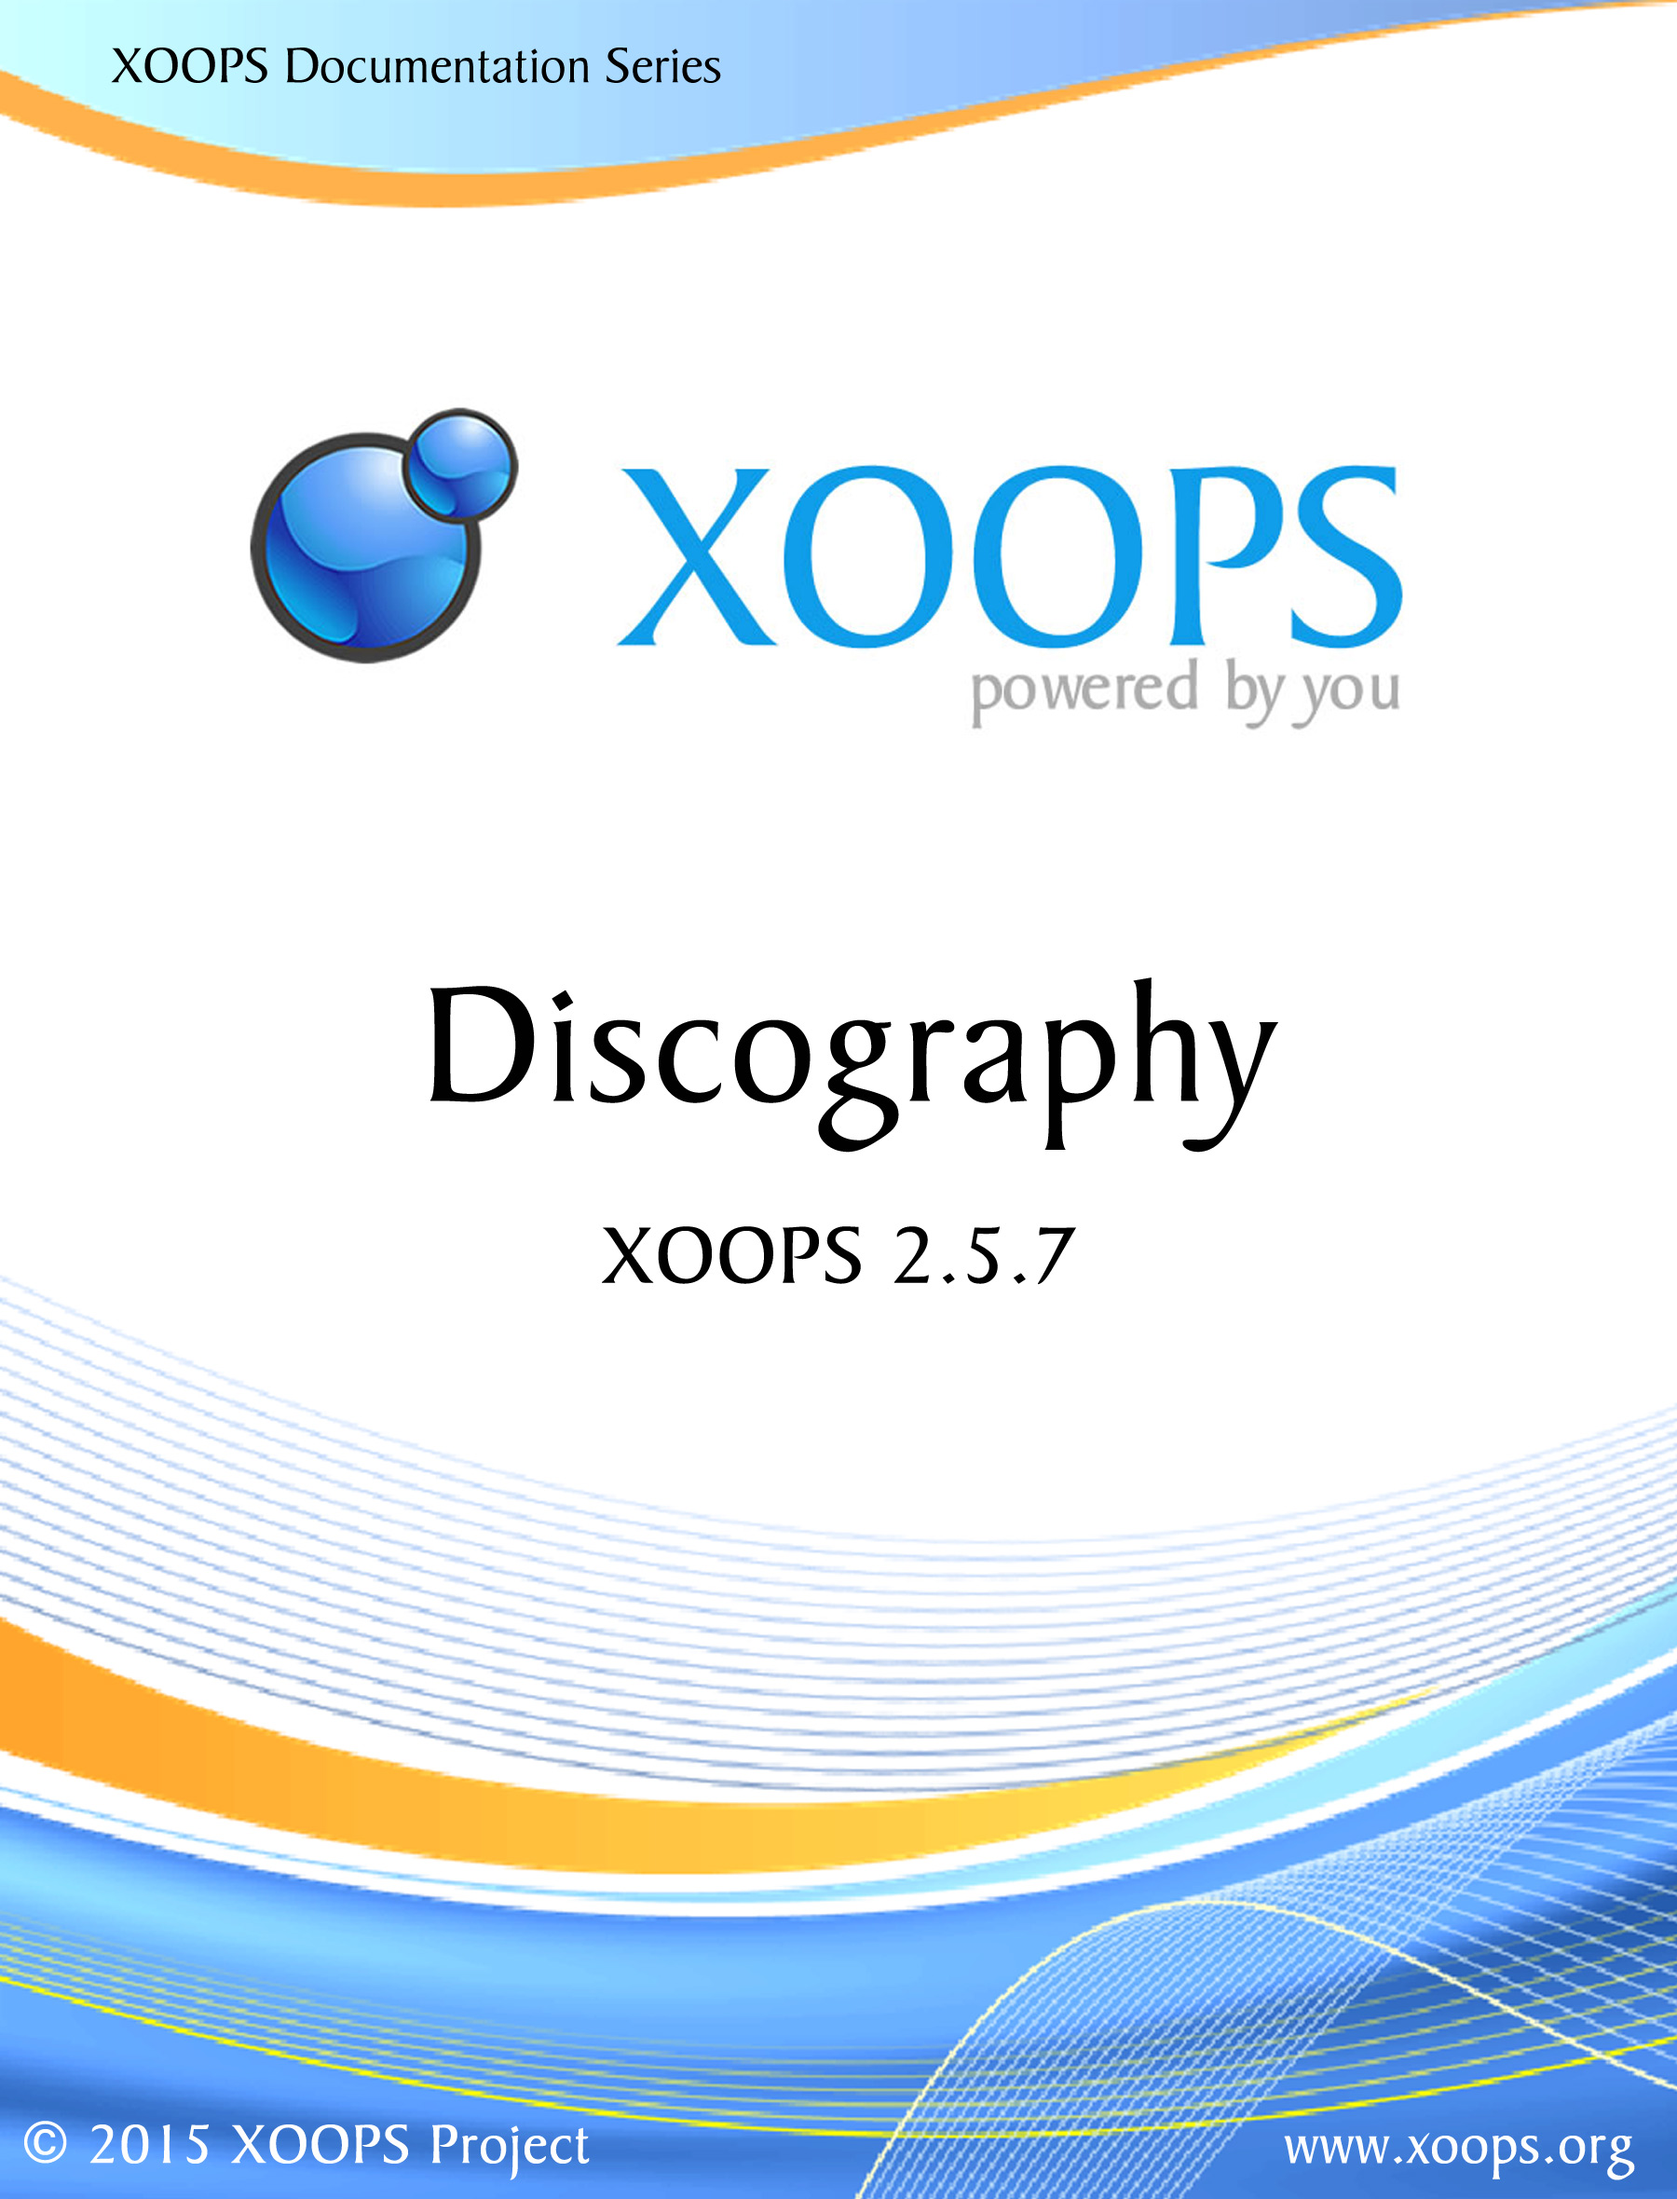
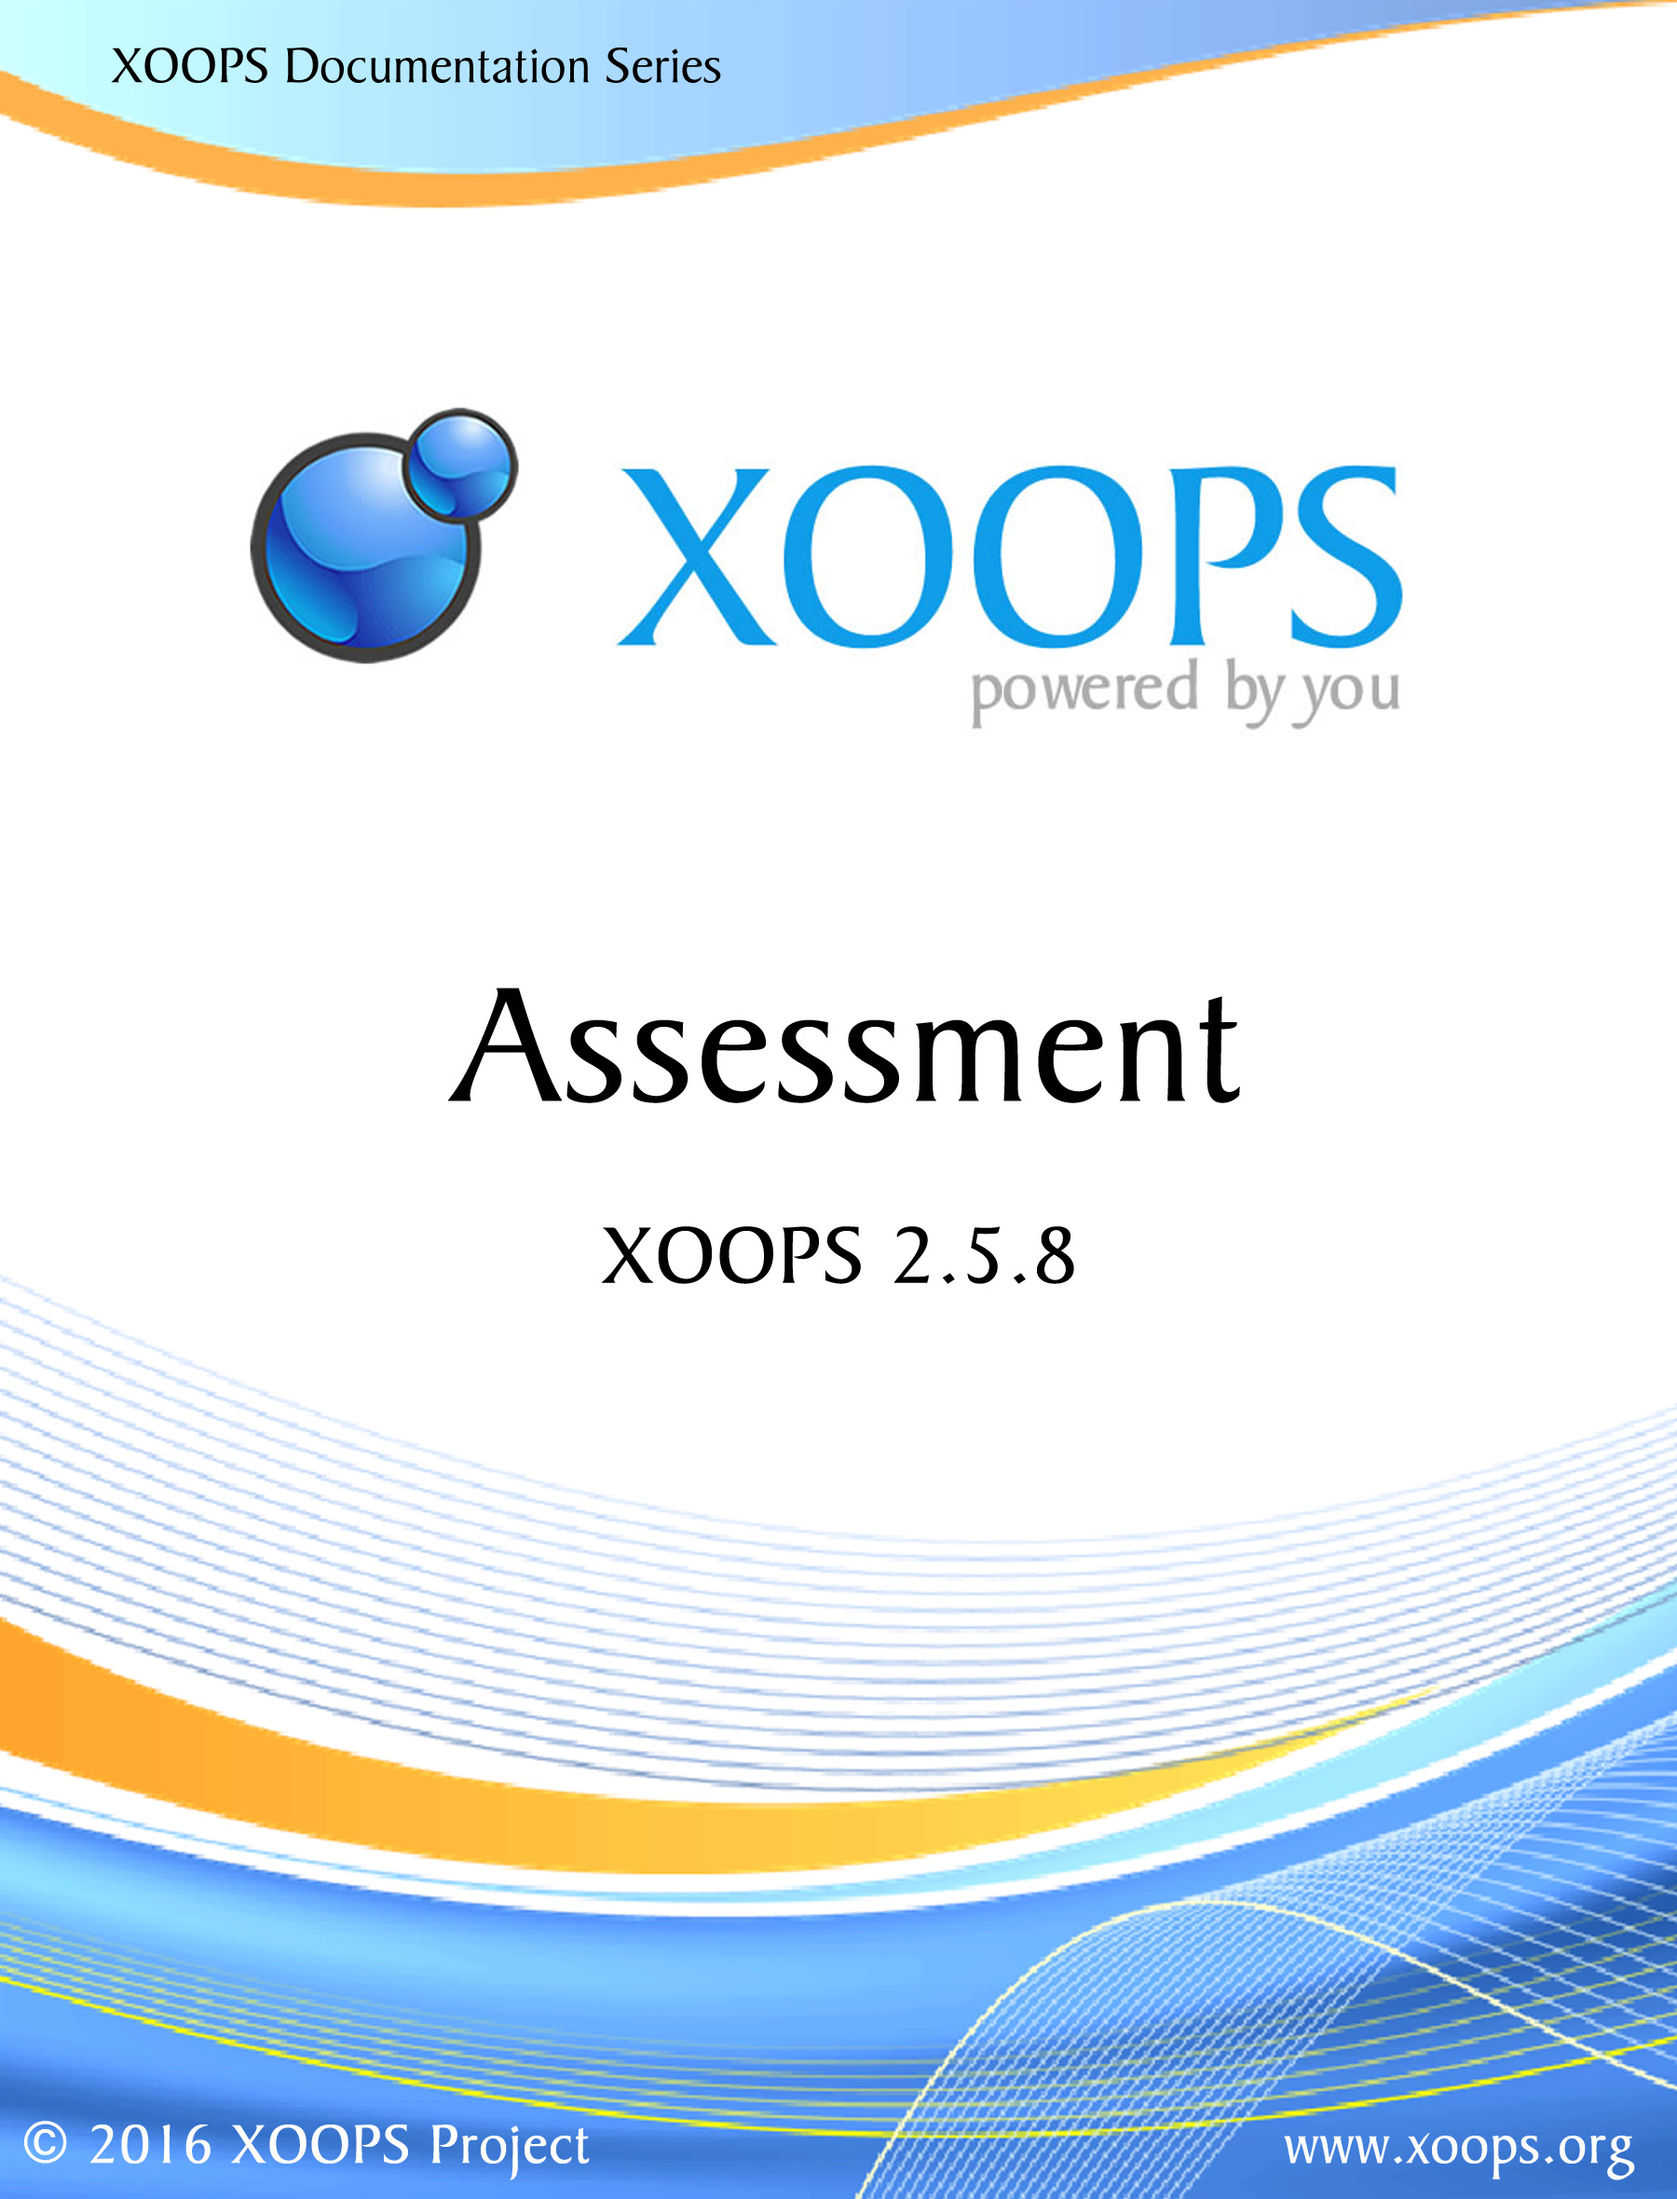
update

Changed region(s): [[0.2489, 0.4331, 0.7778, 0.5258], [0.6222, 0.5568, 0.6533, 0.5877], [0.0933, 0.9589, 0.1244, 0.9898]]

diff --git a/README.md b/README.md
@@ -1,3 +1,47 @@
-# My Awesome Book
+### _XOOPS Documentation Series_
+![logoXoops.jpg](assets/logoXoops.jpg)
 
-This file file serves as your book's preface, a great place to describe your book's content and ideas.
+# Module Assessment
+#### for XOOPS 2.5.8
+      
+![logoModule.png](assets/logoModule.png)
+            
+## User Manual
+
+© 2016 XOOPS Project ([www.xoops.org](http://xoops.org))  
+
+## Module Purpose 
+
+This module enables you to create questions, answers and group them all together to create an exam/assessment
+
+![image001.png](assets/image001.png)
+*Figure 1: Main view of the Assessment Module (Admin side)*
+
+## Download/Fork the Module ![](http://xoops.org/images/forkit.png) 
+
+**You can fork the module --> [here](https://github.com/XoopsModules25x/assessment))** 
+
+## How to Contribute
+
+[You can contribute on GitHub](https://github.com/XoopsDocs/assessment-tutorial). Changes will be [pushed to Gitbook.io automatically](https://www.gitbook.com/book/xoops/assessment-tutorial/activity) when the [main repository](https://github.com/XoopsDocs/assessment-tutorial) changes.
+
+Editing the book can be done either by updating the markdown files with a text editor, or opening the repository in [the Gitbook desktop app](https://github.com/GitbookIO/editor/blob/master/README.md). The desktop app will give you a live preview option.
+
+# Table of Content
+
+* [Install/Uninstall](book/1install.md)
+* [Administration Menu](book/2administration.md)
+* [Preferences](book/3preferences.md)
+* [Operating Instructions](book/4operations.md)
+* [The User Side](book/5userside.md)
+* [Blocks](book/6blocks.md)
+* [Templates](book/7templates.md)
+* [Miscellaneous](book/8other.md) 
+* [Module Credits](book/9credits.md)
+* [About XOOPS CMS](book/10aboutxoops.md)
+
+##License:
+
+<a rel="license" href="http://creativecommons.org/licenses/by-nc-sa/4.0/"><img alt="Creative Commons License" style="border-width:0" src="https://i.creativecommons.org/l/by-nc-sa/4.0/88x31.png" /></a><br />Unless specified, this content is licensed under a <a rel="license" href="http://creativecommons.org/licenses/by-nc-sa/4.0/">Creative Commons Attribution-NonCommercial-ShareAlike 4.0 International License</a>.
+
+All derivative works are to be attributed to XOOPS Project ([www.xoops.org](http://xoops.org))

diff --git a/en/README.md b/en/README.md
@@ -1,8 +1,8 @@
 ### _XOOPS Documentation Series_
 ![logoXoops.jpg](assets/logoXoops.jpg)
 
-# Module XXX
-#### for XOOPS 2.5.7
+# Module Assessment
+#### for XOOPS 2.5.8
       
 ![logoModule.png](assets/logoModule.png)
             
@@ -12,18 +12,18 @@
 
 ## Module Purpose 
 
-This module is for .....
+This module enables you to create questions, answers and group them all together to create an exam/assessment
 
 ![image001.png](assets/image001.png)
-*Figure 1: Main view of the XXX Module (Admin side)*
+*Figure 1: Main view of the Assessment Module (Admin side)*
 
 ## Download/Fork the Module ![](http://xoops.org/images/forkit.png) 
 
-**You can fork the module --> [here](https://github.com/XoopsModules25x/XXX))** 
+**You can fork the module --> [here](https://github.com/XoopsModules25x/assessment))** 
 
 ## How to Contribute
 
-[You can contribute on GitHub](https://github.com/XoopsDocs/XXX-tutorial). Changes will be [pushed to Gitbook.io automatically](https://www.gitbook.com/book/xoops/XXX-tutorial/activity) when the [main repository](https://github.com/XoopsDocs/XXX-tutorial) changes.
+[You can contribute on GitHub](https://github.com/XoopsDocs/assessment-tutorial). Changes will be [pushed to Gitbook.io automatically](https://www.gitbook.com/book/xoops/assessment-tutorial/activity) when the [main repository](https://github.com/XoopsDocs/assessment-tutorial) changes.
 
 Editing the book can be done either by updating the markdown files with a text editor, or opening the repository in [the Gitbook desktop app](https://github.com/GitbookIO/editor/blob/master/README.md). The desktop app will give you a live preview option.
 

diff --git a/pt-br/README.md b/pt-br/README.md
@@ -12,7 +12,7 @@
 
 ## Module Purpose 
 
-This module is for .....
+This module enables you to create questions, answers and group them all together to create an exam/assessment
 
 ![image001.png](assets/image001.png)
 *Figure 1: Main view of the Assessment Module (Admin side)*
